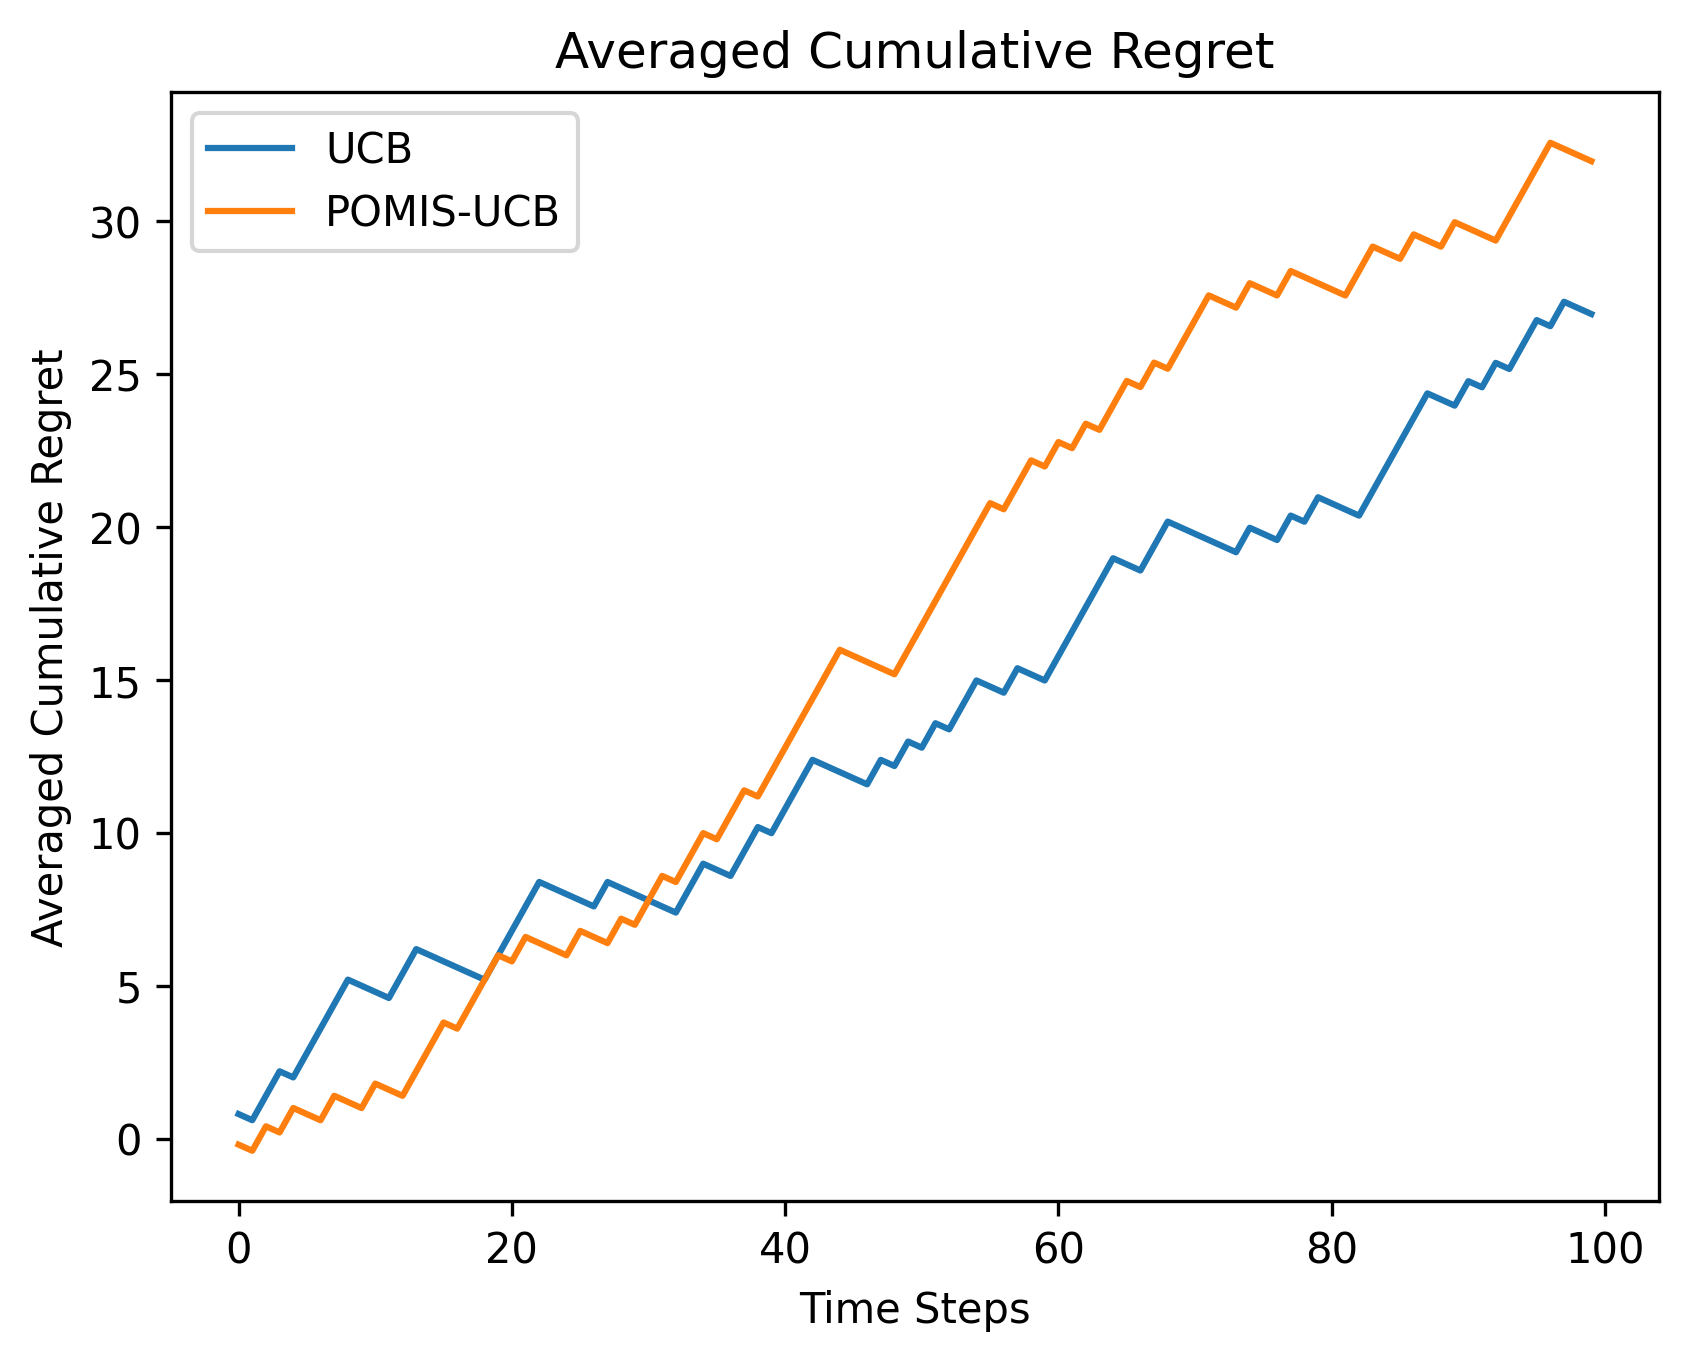
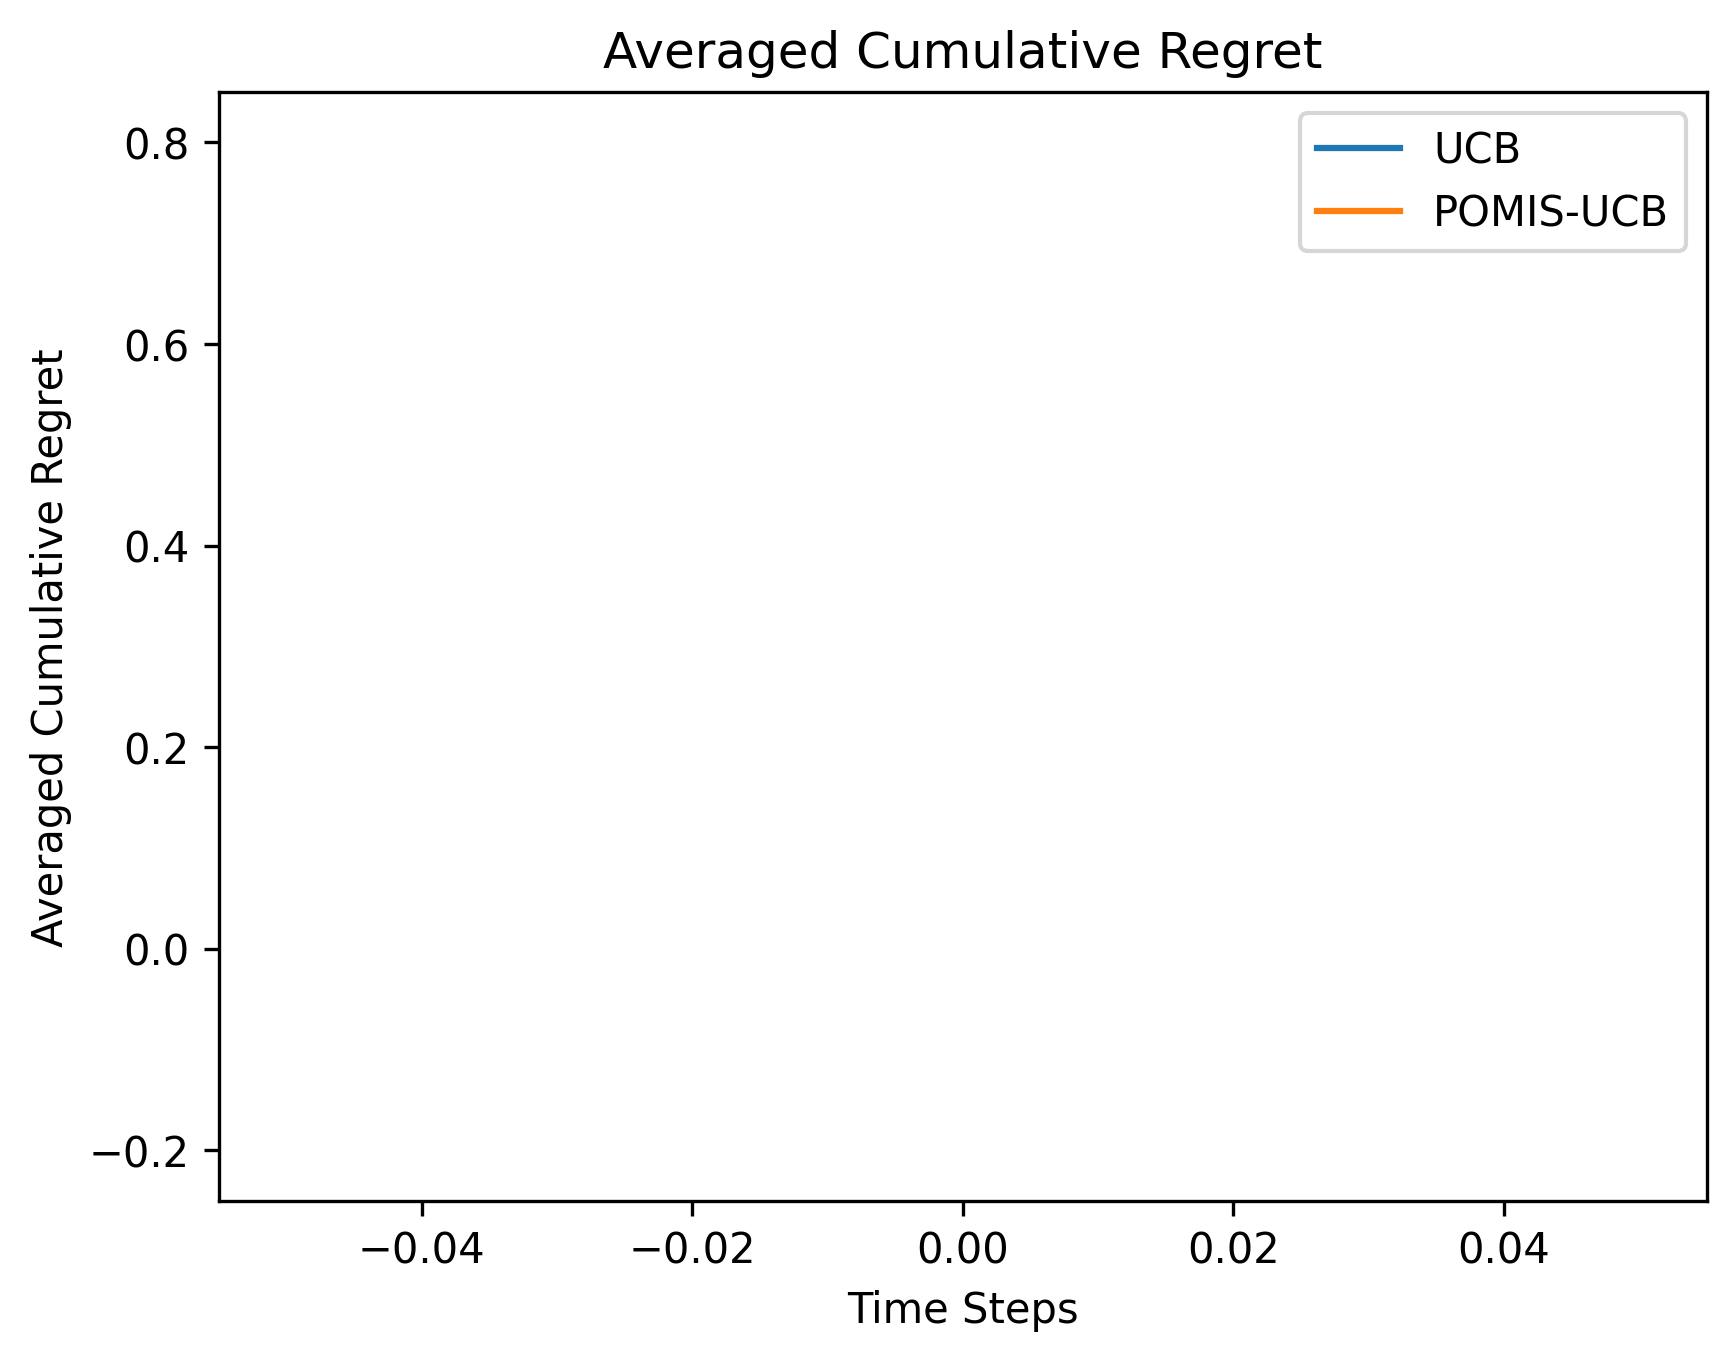
update summation of t

diff --git a/experiments/nonstationary/simple.py b/experiments/nonstationary/simple.py
@@ -10,7 +10,7 @@ from cmab.algorithms.ucb.pomis_ucb import PomisUCBAgent
 from cmab.algorithms.ucb.custom import MyFirstAtomicAgent
 from cmab.algorithms.ucb.ph_ucb import PageHinkleyUCBAgent
 from cmab.environments.ns.scheduling.controlled_schedule import ControlledSchedule
-from cmab.utils.plotting import  plot_regrets, plot_regrets_and_change_points, plot_detection_rate_heatmap
+from cmab.utils.plotting import  plot_regrets, plot_regrets_and_change_points, plot_reset_rate_heatmap
 from cmab.metrics.dynamic_regret import DynamicRegret
 import numpy as np
 
@@ -51,9 +51,10 @@ def main():
         seed=SEED
     )
 
+    # 500: X, 1000: Y, 1500: Z, 2000: Z 
     reward_node = 'Y'
-    schedule = ControlledSchedule(exogenous=['U_X', 'U_Z', 'U_Z', 'U_Y'], new_params=[0.6, 0.45, 0.8, 0.5], every=200)
-    env = NSCausalBanditEnv(scm=scm, reward_node=reward_node, seed=SEED, atomic=True, shift_schedule=schedule)
+    schedule = ControlledSchedule(exogenous=['U_X', 'U_Y', 'U_Z', 'U_Z'], new_params=[0.6, 0.8, 0.2, 0.9], every=500)
+    env = NSCausalBanditEnv(scm=scm, reward_node=reward_node, seed=SEED, atomic=True, shift_schedule=schedule, include_empty=False)
     print(f"Number of actions: {len(env.action_space)}")
     print(f"Action space: {env.action_space}")
 
@@ -63,7 +64,7 @@ def main():
 
     G = env.scm.get_causal_diagram()
 
-    c = 2.0  # UCB exploration parameter
+    c = np.sqrt(2)  # UCB exploration parameter
     delta = 0.005  # CPD tolerance parameter. 
     lambda_ = 20.0  # CPD threshold parameter
     min_samples_for_detection = 30  # Minimum samples before CPD starts detecting change points
@@ -72,20 +73,20 @@ def main():
         # Arm level CPD
         'UCB': UCBAgent(reward_node=reward_node, arms=env.action_space, c=c),
         'PH-UCB': PageHinkleyUCBAgent(reward_node=reward_node, arms=env.action_space, c=c, delta=delta, lambda_=lambda_, min_samples_for_detection=min_samples_for_detection, reset_all=True),
-        #'PH-UCB-arm': PageHinkleyUCBAgent(reward_node=reward_node, arms=env.action_space, c=c, delta=delta, lambda_=lambda_, min_samples_for_detection=min_samples_for_detection, reset_all=False),
+        'PH-UCB-arm': PageHinkleyUCBAgent(reward_node=reward_node, arms=env.action_space, c=c, delta=delta, lambda_=lambda_, min_samples_for_detection=min_samples_for_detection, reset_all=False),
         #'SW-UCB': SlidingWindowUCBAgent(reward_node=reward_node, arms=env.action_space, c=c, window_size=100),
         # Node level CPD
-        #'Custom-UCB': MyFirstAtomicAgent(reward_node=reward_node, G=G, arms=env.action_space, c=c, delta=delta, lambda_=lambda_, min_samples_for_detection=min_samples_for_detection)
+        'Custom-UCB': MyFirstAtomicAgent(reward_node=reward_node, G=G, arms=env.action_space, c=c, delta=delta, lambda_=lambda_, min_samples_for_detection=min_samples_for_detection)
     }
 
-    T= 1000  # number of steps in each run
+    T= 2500  # number of steps in each run
     n = 100  # number of runs to average over
 
     regret = DynamicRegret(T=T)
 
     averaged_regrets = {name: np.zeros(T) for name in agents.keys()}
-    change_points = {
-        name: {node: np.zeros(T, dtype=int) for node in G.nodes}
+    resat_arms = {
+        name: {arm: np.zeros(T, dtype=int) for arm in env.action_space} 
         for name in agents.keys()
     }
     for name, agent in agents.items():
@@ -100,31 +101,40 @@ def main():
             # If you want different change points across runs, use SEED + i for ns_seed
             env.reset(scm_seed=SEED+i, ns_seed=SEED)
 
+            current_optimal_expected_reward = None
+            current_optimal_arm = None
             for _ in range(T):
-                optimal_arm, opt_exp_reward = env.get_optimal(binary=True, discrete=True)
+                optimal_arm, opt_exp_reward = env.get_optimal(binary=True)
+
+                if current_optimal_expected_reward is None or opt_exp_reward != current_optimal_expected_reward or optimal_arm != current_optimal_arm:
+                    print(f"\nStep {_+1}: Optimal expected reward changed to {opt_exp_reward} with optimal arm {optimal_arm}")
+                    print(f"New expected rewards: {[f'{a}: {env.scm.expected_value_binary(variable=reward_node, intervention_set=a):.4f}' for a in env.action_space]}")
+                    current_optimal_expected_reward = opt_exp_reward
+                    current_optimal_arm = optimal_arm
+
+
                 action = agent.select_arm()
-                print(f"Selected action: {action}")
+                expected_reward = env.scm.expected_value_binary(variable=reward_node, intervention_set=action)
+
                 _, observation, _, _, _ = env.step(action)
                 agent._update(action, observation)
-                expected_reward = scm.expected_value_binary(variable=reward_node, intervention_set=action)
+                expected_reward = env.scm.expected_value_binary(variable=reward_node, intervention_set=action)
 
                 regret.update(expected_reward, opt_exp_reward)
             
-            if hasattr(agent, 'change_points'):
-                for node, cps in agent.change_points.items():
-                    # cps is a list of length of T with values 0/1
-                    change_points[name][node] += np.array(cps) 
-            
+            if hasattr(agent, 'resat_arms'):
+                for arm, cps in agent.resat_arms.items():
+                    for cp in cps:
+                        resat_arms[name][arm][cp-1] += 1  # cp-1 because time steps are 1-indexed in the agent but we want 0-indexed for the array
+
             averaged_regrets[name] += regret.get_regrets() / n
 
     #plot_regrets(regrets=averaged_regrets.values(), labels=averaged_regrets.keys(), title="Averaged Cumulative Regret")
     cps = schedule.get_change_points(T=T, rng=np.random.default_rng(SEED))
     plot_regrets_and_change_points(regrets=averaged_regrets.values(), labels=averaged_regrets.keys(), title="Averaged Cumulative Regret with Change Points", change_points=cps, T=T)
-    # plot_detection_rate_heatmap(
-    #     change_points=change_points,
-    #     true_change_points=[200, 400, 600, 800, 900],
-    #     title="Change detection rate by node",
-    # )
+    
+    for name, cps in resat_arms.items():
+        plot_reset_rate_heatmap(reset_counts=cps,title=f"Reset rate by arm for agent {name}", save_path=f"plots/reset_rate_heatmap_{name}.png")
 
 if __name__ == "__main__":
     main()

diff --git a/src/cmab/algorithms/ucb/custom.py b/src/cmab/algorithms/ucb/custom.py
@@ -21,7 +21,7 @@ class MyFirstAtomicAgent(UCBAgent):
 
         self.cpds = self._init_cpds()
         self.resat_arms = {arm: [] for arm in self.arms}  # Keep track of detected change points for analysis 
-        #self.test = ['X', 'X', 'X']
+        #self.test = ['X', 'Y', 'Z', 'Z']
         
     def _init_cpds(self):
         cpds = defaultdict(dict)
@@ -38,7 +38,7 @@ class MyFirstAtomicAgent(UCBAgent):
         super()._update(arm, observation)
 
         detected = set()
-        # if self.t > 1 and self.t < 2000 and self.t % 500 == 0:
+        # if self.t > 1 and self.t < 2500 and self.t % 500 == 0:
         #         print(f"\nStep {self.t}: Change point detected for nodes: {self.test[self.t//500 - 1]}!")
         #         detected.add(self.test[self.t//500 - 1])
 
@@ -53,8 +53,9 @@ class MyFirstAtomicAgent(UCBAgent):
                 print(f"\nStep {self.t}: Change point detected for node {node}!")
                 detected.add(node)
                 # Reset CPD state for this node
-                self.cpds[node][cfg] = drift.PageHinkley(delta=self.delta, threshold=self.lambda_, min_instances=self.min_samples_for_detection) 
-                # Consider adding some of the previous observations to the new CPD state to make it more robust, but for now we just reset it.
+                for cfg in self.cpds[node]: # reset all parent contexts for this node (if one changes, the other ones do to)
+                    self.cpds[node][cfg] = drift.PageHinkley(delta=self.delta, threshold=self.lambda_, min_instances=self.min_samples_for_detection) 
+                    # Consider adding some of the previous observations to the new CPD state to make it more robust, but for now we just reset it.
 
         if len(detected) > 0:
             self._update_on_change_point(detected)
@@ -64,7 +65,6 @@ class MyFirstAtomicAgent(UCBAgent):
 
         # We know which variable was alarmed, it must be the exogenous variabe of this one that shifted. 
         shifted = set()
-        print(f"Detected change points for nodes: {detected}" f" at step {self.t}")
         # Find exogenous variables of detected nodes
         for node in detected:
             exogenous = {u for (u, v) in self.G.noise_vars if v == node}
@@ -86,7 +86,7 @@ class MyFirstAtomicAgent(UCBAgent):
                 self.resat_arms[self.arms[arm_index]].append(self.t)
                 print(f"Resetting arm {arm} (index {arm_index}) due to detected shift")
                 self.estimates[arm_index] = 0.0
-                self.arm_samples[arm_index] = 0
+                self.arm_samples[arm_index] = 0.0#int(0.5 * self.arm_samples[arm_index]) # gamma * current estimate
         
     @override
     def reset(self):

diff --git a/src/cmab/algorithms/ucb/ph_ucb.py b/src/cmab/algorithms/ucb/ph_ucb.py
@@ -25,30 +25,10 @@ class PageHinkleyUCBAgent(UCBAgent):
         self.lambda_ = lambda_
         self.min_samples_for_detection = min_samples_for_detection
         self.reset_all = reset_all
-        self.steps_since_reset = 0
 
         self.cpds = [drift.PageHinkley(delta=self.delta, threshold=self.lambda_, min_instances=self.min_samples_for_detection) for _ in range(self.n_arms)]
         self.resat_arms = {arm : [] for arm in self.arms}  # Keep track of detected change points for analysis
         #self.test = ['X', 'X', 'X']
-
-    @override
-    def select_arm(self) -> InterventionSet:
-        self.t += 1 
-        self.steps_since_reset += 1
-
-        # Ensure each arm tried once
-        for i in range(self.n_arms):
-            if self.arm_samples[i] == 0:
-                return self.arms[i]
-
-        ucb_values = np.empty(self.n_arms, dtype=float)
-        for i in range(self.n_arms):
-            n_i = self.arm_samples[i]
-            t = self.steps_since_reset if self.reset_all else self.t
-            bound = np.sqrt(np.log(t) / n_i)
-            ucb_values[i] = self.estimates[i] + self.c * bound
-
-        return self.arms[int(np.argmax(ucb_values))]
 
     @override
     def _update(self, arm: InterventionSet, observation: Observation) -> None:
@@ -67,14 +47,13 @@ class PageHinkleyUCBAgent(UCBAgent):
             if self.reset_all: # Reset all arms
                 self.estimates = np.zeros(self.n_arms)
                 self.arm_samples = np.zeros(self.n_arms, dtype=int)
-                self.steps_since_reset = 0
                 self.cpds = [drift.PageHinkley(delta=self.delta, threshold=self.lambda_, min_instances=self.min_samples_for_detection) for _ in range(self.n_arms)]
                 for a in self.arms:
                     self.resat_arms[a].append(self.t)
             
             else: # Reset only the arm that triggered the alarm
                 self.estimates[arm_index] = 0.0
-                self.arm_samples[arm_index] = 0
+                self.arm_samples[arm_index] =0.0 # int(0.5 * self.arm_samples[arm_index])
                 self.cpds[arm_index] = drift.PageHinkley(delta=self.delta, threshold=self.lambda_, min_instances=self.min_samples_for_detection)
                 self.resat_arms[arm].append(self.t)
 
@@ -83,4 +62,3 @@ class PageHinkleyUCBAgent(UCBAgent):
         super().reset()
         self.cpds = [drift.PageHinkley(delta=self.delta, threshold=self.lambda_, min_instances=self.min_samples_for_detection) for _ in range(self.n_arms)]
         self.resat_arms = {arm : [] for arm in self.arms}
-        self.steps_since_reset = 0

diff --git a/experiments/nonstationary/simple2.py b/experiments/nonstationary/simple2.py
@@ -127,7 +127,7 @@ def main():
             env.reset(scm_seed=SEED+i, ns_seed=SEED)
 
             for _ in range(T):
-                optimal_arm, opt_exp_reward = env.get_optimal(binary=True, discrete=True)
+                optimal_arm, opt_exp_reward = env.get_optimal(binary=True)
 
                 action = agent.select_arm()
                 expected_reward = env.scm.expected_value_binary(variable=reward_node, intervention_set=action)
@@ -140,20 +140,17 @@ def main():
             
             if hasattr(agent, 'resat_arms'):
                 for arm, cps in agent.resat_arms.items():
-                    # cps is a list of time steps where this arm was reset. We want to convert this into a binary array of length T where 1 indicates a change point at that time step.
                     for cp in cps:
                         resat_arms[name][arm][cp-1] += 1  # cp-1 because time steps are 1-indexed in the agent but we want 0-indexed for the array
+
+            averaged_regrets[name] += regret.get_regrets() / n
 
     #plot_regrets(regrets=averaged_regrets.values(), labels=averaged_regrets.keys(), title="Averaged Cumulative Regret")
     cps = schedule.get_change_points(T=T, rng=np.random.default_rng(SEED))
     plot_regrets_and_change_points(regrets=averaged_regrets.values(), labels=averaged_regrets.keys(), title="Averaged Cumulative Regret with Change Points", change_points=cps, T=T)
     
     for name, cps in resat_arms.items():
-        plot_reset_rate_heatmap(
-            reset_counts=cps,
-            title=f"Reset rate by arm for agent {name}",
-            save_path=f"reset_rate_{name}.png"
-        )
+        plot_reset_rate_heatmap(reset_counts=cps,title=f"Reset rate by arm for agent {name}", save_path=f"plots/reset_rate_heatmap_{name}.png")
 
 if __name__ == "__main__":
     main()

diff --git a/experiments/SCMMAB-NIPS2018/semi_markovian.py b/experiments/SCMMAB-NIPS2018/semi_markovian.py
@@ -83,14 +83,18 @@ def main():
         "POMIS-UCB": PomisUCBAgent(reward_node=reward_node, G=G, arms=env.action_space, c=2)
     }
 
-    print("UCB arms:", len(env.action_space), "unique:", len(set(env.action_space)))
-    pomis_arms = PomisUCBAgent(reward_node=reward_node, G=G, arms=env.action_space, c=2).arms
-    print("POMIS arms:", len(pomis_arms), "unique:", len(set(pomis_arms)))
-
-    T= 100  # number of steps in each run
-    n = 1  # number of runs to average over
+    T= 1  # number of steps in each run
+    n = 1 # number of runs to average over
 
     regret = CumulativeRegret(optimal_expected_reward=optimal_value, T=T)
+
+    for action in env.action_space:
+        expected_reward = scm.expected_value_binary(variable=reward_node, intervention_set=action)
+        print(f"Expected reward for action {action}: {expected_reward:.4f}")
+    
+    for action in agents["POMIS-UCB"].arms:
+        expected_reward = scm.expected_value_binary(variable=reward_node, intervention_set=action)
+        print(f"Expected reward for action {action}: {expected_reward:.4f}")
 
     averaged_regrets = {name: np.zeros(T) for name in agents.keys()}
     for name, agent in agents.items():

diff --git a/src/cmab/utils/plotting.py b/src/cmab/utils/plotting.py
@@ -9,12 +9,12 @@ def plot_regrets(regrets, labels, title):
     plt.ylabel("Averaged Cumulative Regret")
     plt.title(title)
     plt.legend()
-    plt.savefig("regret_curve.png", dpi=300, bbox_inches="tight")
+    plt.savefig("plots/regret_curve.png", dpi=300, bbox_inches="tight")
     plt.close()
 
 
 
-def plot_regrets_and_change_points(regrets, labels, title, change_points: list, T:int, save_path="regret_curve_with_cps.png"):
+def plot_regrets_and_change_points(regrets, labels, title, change_points: list, T:int, save_path="plots/regret_curve_with_cps.png"):
     """Plots the averaged cumulative regrets along with vertical lines indicating change points.
     Args:
         regrets (list of np.ndarray): List of averaged cumulative regret arrays for each agent.
@@ -40,7 +40,7 @@ def plot_regrets_and_change_points(regrets, labels, title, change_points: list, 
 def plot_reset_rate_heatmap(
     reset_counts: dict[InterventionSet, np.ndarray],
     title: str = "Reset-rate heatmap over time (by arm)",
-    save_path: str = "reset_rate_heatmap.png"
+    save_path: str = "plots/reset_rate_heatmap.png"
 ):
 
     arms = list(reset_counts.keys())

diff --git a/src/cmab/algorithms/ucb/ucb_base.py b/src/cmab/algorithms/ucb/ucb_base.py
@@ -7,7 +7,7 @@ class UCBAgent(BaseBanditAlgorithm):
     Args:
     c: float, degree of exploration
     """
-    def __init__(self, reward_node:str, arms: list[InterventionSet], c:float=2):
+    def __init__(self, reward_node:str, arms: list[InterventionSet], c:float=np.sqrt(2)):
         super().__init__(reward_node)
         self.arms = arms
         self.n_arms = len(arms)
@@ -26,8 +26,9 @@ class UCBAgent(BaseBanditAlgorithm):
 
         ucb_values = []
         for arm in range(self.n_arms): 
-            n_i = self.arm_samples[arm]
-            bound = np.sqrt(np.log(self.t)/n_i)
+            n_arm = self.arm_samples[arm]
+            t = np.sum(self.arm_samples)  
+            bound = np.sqrt(np.log(t)/n_arm)
             ucb_values.append(self.estimates[arm] + self.c*bound)
         return self.arms[np.argmax(ucb_values)]
     

diff --git a/experiments/nonstationary/markovian.py b/experiments/nonstationary/markovian.py
@@ -128,7 +128,7 @@ def main():
             env.reset(scm_seed=SEED+i, ns_seed=SEED)
 
             for _ in range(T):
-                optimal_arm, opt_exp_reward = env.get_optimal(binary=True, discrete=True)
+                optimal_arm, opt_exp_reward = env.get_optimal(binary=True)
 
                 action = agent.select_arm()
                 expected_reward = env.scm.expected_value_binary(variable=reward_node, intervention_set=action)
